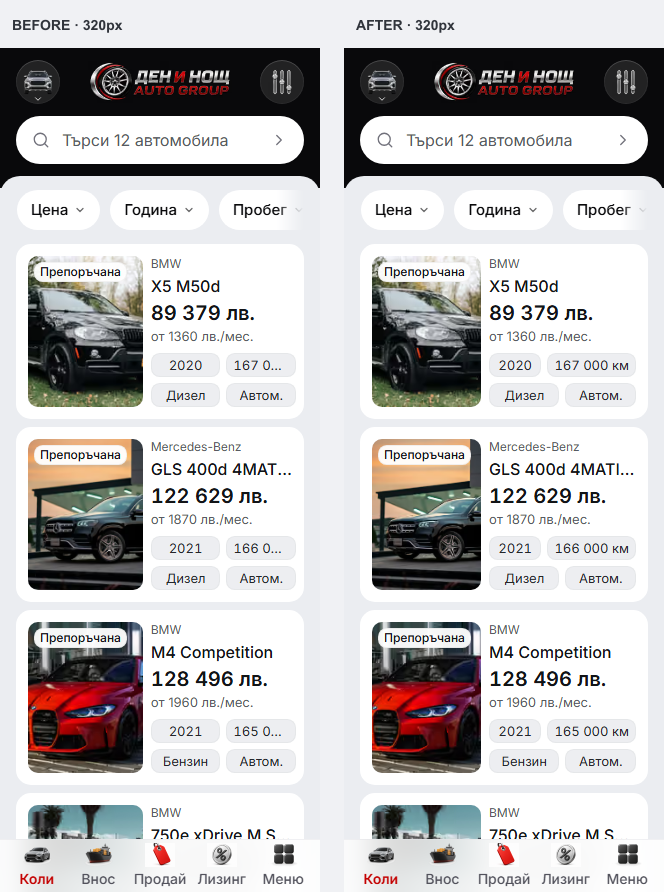
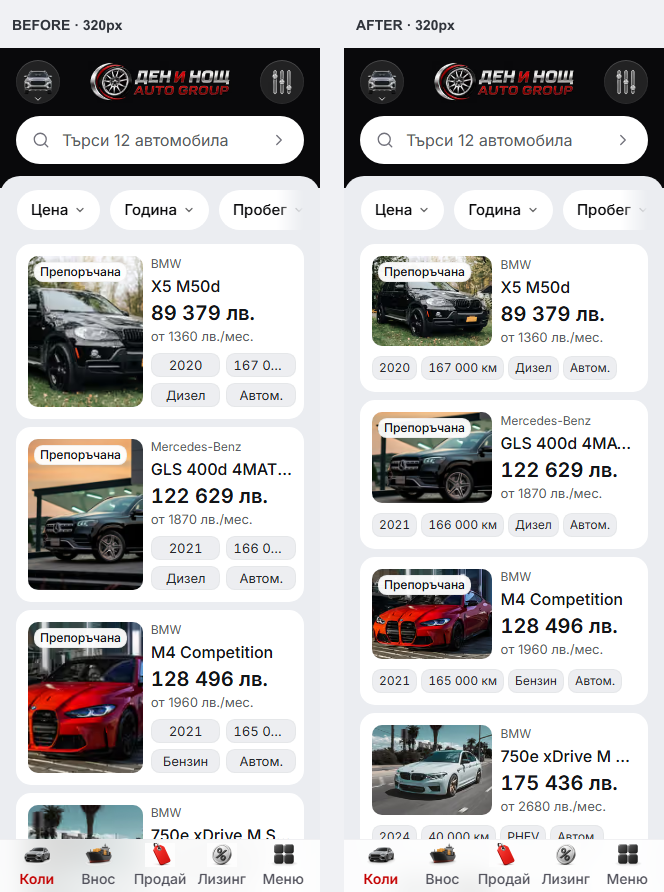
Keep Modern mobile cards landscape with one row of facts

Changed region(s): [[0.5422, 0.2724, 0.9639, 0.9989]]

diff --git a/templates/modern/apps/e2e/specs/modern-mobile-completion.spec.ts b/templates/modern/apps/e2e/specs/modern-mobile-completion.spec.ts
@@ -466,7 +466,7 @@ test("320px inventory keeps semantic type and complete vehicle facts", async ({
   page,
 }) => {
   await page.setViewportSize({ width: 320, height: 700 });
-  await page.goto("/cars");
+  await page.goto("/bg/cars");
   await page.evaluate(() => document.fonts.ready);
 
   const navLabels = page.locator(
@@ -488,7 +488,7 @@ test("320px inventory keeps semantic type and complete vehicle facts", async ({
   const facts = page
     .locator('[data-slot="vehicle-card-spec-pills"]:visible')
     .first()
-    .locator("li > span");
+    .locator('[data-slot="vehicle-card-spec"] > span:first-child');
   const metrics = await facts.evaluateAll((elements) =>
     elements.map((element) => ({
       text: element.textContent,
@@ -506,7 +506,7 @@ test("320px inventory keeps semantic type and complete vehicle facts", async ({
 });
 
 for (const width of [320, 375, 390, 430]) {
-  test(`mobile spec badges keep full values in padded rows at ${width}px`, async ({
+  test(`mobile cards keep landscape photos and one complete badge row at ${width}px`, async ({
     page,
   }) => {
     await page.setViewportSize({ width, height: 844 });
@@ -517,90 +517,61 @@ for (const width of [320, 375, 390, 430]) {
       await expect(cards.first()).toBeVisible();
       const metrics = await cards.evaluateAll((elements) =>
         elements.map((card) => {
-          const brand = card.querySelector('[data-slot="vehicle-card-brand"]');
           const title = card.querySelector('[data-slot="vehicle-card-title"]');
           const media = card
             .closest("article")
-            ?.querySelector('[data-slot="vehicle-card-media"]');
-          const facts = card.querySelector(
-            '[data-slot="vehicle-card-spec-pills"]'
-          );
+            ?.querySelector('[data-slot="vehicle-card-media"]')
+            ?.getBoundingClientRect();
+          const facts = card
+            .querySelector('[data-slot="vehicle-card-spec-pills"]')
+            ?.getBoundingClientRect();
           return {
-            brand: brand?.textContent,
-            brandFont: brand ? getComputedStyle(brand).fontSize : undefined,
             titleName: title?.getAttribute("aria-label"),
             fullTitle: title?.getAttribute("title"),
-            topDelta:
-              brand && media
-                ? brand.getBoundingClientRect().top -
-                  media.getBoundingClientRect().top
-                : undefined,
-            bottomDelta:
-              facts && media
-                ? facts.getBoundingClientRect().bottom -
-                  media.getBoundingClientRect().bottom
-                : undefined,
-            rows: [
+            mediaWidth: media?.width ?? 0,
+            mediaHeight: media?.height ?? 0,
+            factsGap: (facts?.top ?? 0) - (media?.bottom ?? 0),
+            factsRight: facts?.right ?? 0,
+            pills: [
               ...card.querySelectorAll(
-                '[data-slot="vehicle-card-spec-pills"]:first-child > li'
+                '[data-slot="vehicle-card-spec-pills"] > [data-slot="vehicle-card-spec"]'
               ),
             ]
-              .filter((row) => row.getBoundingClientRect().width > 0)
-              .map((row) =>
-                [
-                  ...row.querySelectorAll('[data-slot="vehicle-card-spec"]'),
-                ].map((pill) => {
-                  const text = pill.firstElementChild;
-                  const style = text ? getComputedStyle(text) : undefined;
-                  return {
-                    width: pill.getBoundingClientRect().width,
-                    height: pill.getBoundingClientRect().height,
-                    weight: getComputedStyle(pill).fontWeight,
-                    whiteSpace: style?.whiteSpace,
-                    textOverflow: style?.textOverflow,
-                    overflow: style?.overflow,
-                    padding: getComputedStyle(pill).paddingInlineStart,
-                    textClientWidth: text?.clientWidth,
-                    textScrollWidth: text?.scrollWidth,
-                    text: text?.textContent,
-                  };
-                })
-              ),
+              .filter((pill) => pill.getBoundingClientRect().width > 0)
+              .map((pill) => {
+                const text = pill.firstElementChild;
+                const rect = pill.getBoundingClientRect();
+                return {
+                  top: rect.top,
+                  right: rect.right,
+                  height: rect.height,
+                  padding: getComputedStyle(pill).paddingInlineStart,
+                  textClientWidth: text?.clientWidth ?? 0,
+                  textScrollWidth: text?.scrollWidth ?? 0,
+                  text: text?.textContent,
+                };
+              }),
           };
         })
       );
       expect(metrics.length).toBeGreaterThan(0);
       for (const card of metrics) {
-        expect(card.brand).toBeTruthy();
-        expect(card.brandFont).toBe("12px");
         expect(card.titleName).toBe(card.fullTitle);
-        expect(
-          Math.abs(card.topDelta ?? Number.POSITIVE_INFINITY)
-        ).toBeLessThan(1);
-        expect(
-          Math.abs(card.bottomDelta ?? Number.POSITIVE_INFINITY)
-        ).toBeLessThan(1);
-        expect(card.rows).toHaveLength(2);
-        for (const row of card.rows) {
-          expect(row).toHaveLength(2);
-          for (const pill of row) {
-            expect(
-              pill.textScrollWidth,
-              pill.text ?? "vehicle fact"
-            ).toBeLessThanOrEqual(pill.textClientWidth ?? 0);
-            expect(pill.height).toBe(24);
-            expect(pill.weight).toBe("400");
-            expect(pill.whiteSpace).toBe("nowrap");
-            expect(pill.textOverflow).toBe("ellipsis");
-            expect(pill.overflow).toBe("hidden");
-            expect(Number.parseFloat(pill.padding)).toBeGreaterThanOrEqual(6);
-          }
+        expect(card.mediaWidth).toBeGreaterThan(card.mediaHeight);
+        expect(card.factsGap).toBeGreaterThanOrEqual(8);
+        expect(card.pills).toHaveLength(4);
+        for (const pill of card.pills) {
+          expect(Math.abs(pill.top - card.pills[0].top)).toBeLessThan(1);
+          expect(pill.right).toBeLessThanOrEqual(card.factsRight + 1);
+          expect(
+            pill.textScrollWidth,
+            pill.text ?? "vehicle fact"
+          ).toBeLessThanOrEqual(pill.textClientWidth);
+          expect(pill.height).toBe(24);
+          expect(Number.parseFloat(pill.padding)).toBeGreaterThanOrEqual(6);
         }
       }
-      const automatic = cards
-        .locator('[data-fact="transmission"]')
-        .filter({ hasText: locale === "bg" ? "Автоматик" : "Automatic" })
-        .first();
+      const automatic = cards.locator('[data-fact="transmission"]').first();
       await expect(automatic.locator("span").first()).toHaveText(
         locale === "bg" ? "Автом." : "Auto"
       );
@@ -613,7 +584,6 @@ for (const width of [320, 375, 390, 430]) {
     }
   });
 }
-
 for (const viewport of [
   { width: 320, height: 700 },
   { width: 844, height: 390 },

diff --git a/templates/modern/packages/marketplace-ui/components/dealer-vehicle-facts.tsx b/templates/modern/packages/marketplace-ui/components/dealer-vehicle-facts.tsx
@@ -10,46 +10,35 @@ export function DealerVehicleFacts({
   }[];
   readonly label: string;
 }) {
-  const rows = Array.from({ length: Math.ceil(facts.length / 2) }, (_, index) =>
-    facts.slice(index * 2, index * 2 + 2)
-  );
-
   return (
     <>
       <div className="lg:hidden">
         <ul
           aria-label={label}
-          className="grid gap-1.5 text-card-spec text-secondary-foreground"
+          className="flex gap-1 text-micro text-secondary-foreground min-[360px]:text-card-spec"
           data-slot="vehicle-card-spec-pills"
         >
-          {rows.map((row) => (
+          {facts.map((fact) => (
             <li
-              className="grid min-w-0 grid-cols-[minmax(0,1fr)_minmax(max-content,1fr)] gap-1.5"
-              key={row[0].id}
+              className="flex min-h-6 shrink-0 items-center justify-center rounded-md border border-border/40 bg-secondary px-1.5 py-0.5 font-normal tabular-nums"
+              data-fact={fact.id}
+              data-slot="vehicle-card-spec"
+              key={fact.id}
+              title={fact.value}
             >
-              {row.map((fact) => (
-                <span
-                  className="flex min-h-6 min-w-0 max-w-full items-center justify-center rounded-md border border-border/40 bg-secondary px-1.5 py-0.5 font-normal tabular-nums"
-                  data-fact={fact.id}
-                  data-slot="vehicle-card-spec"
-                  key={fact.id}
-                  title={fact.value}
-                >
-                  <span
-                    aria-hidden={
-                      fact.mobileDisplayValue || fact.displayValue
-                        ? true
-                        : undefined
-                    }
-                    className="min-w-0 truncate"
-                  >
-                    {fact.mobileDisplayValue ?? fact.displayValue ?? fact.value}
-                  </span>
-                  {fact.mobileDisplayValue || fact.displayValue ? (
-                    <span className="sr-only">{fact.value}</span>
-                  ) : null}
-                </span>
-              ))}
+              <span
+                aria-hidden={
+                  fact.mobileDisplayValue || fact.displayValue
+                    ? true
+                    : undefined
+                }
+                className="whitespace-nowrap"
+              >
+                {fact.mobileDisplayValue ?? fact.displayValue ?? fact.value}
+              </span>
+              {fact.mobileDisplayValue || fact.displayValue ? (
+                <span className="sr-only">{fact.value}</span>
+              ) : null}
             </li>
           ))}
         </ul>

diff --git a/templates/modern/packages/marketplace-ui/lib/mobile-vehicle-card-layout.ts b/templates/modern/packages/marketplace-ui/lib/mobile-vehicle-card-layout.ts
@@ -1,24 +1,25 @@
 /** Shared mobile geometry for inventory links and financing selection cards. */
 export const mobileVehicleCardClassName =
-  "grid grid-cols-[42%_minmax(0,1fr)] lg:flex lg:flex-row";
+  "grid grid-cols-[46%_minmax(0,1fr)] lg:flex lg:flex-row";
 
-export const mobileVehicleCardImageSizes = "42vw";
+export const mobileVehicleCardImageSizes = "46vw";
 
 export const mobileVehicleCardMediaClassName =
-  "relative col-start-1 row-start-1 z-10 m-3 mr-0 min-w-0 self-stretch overflow-hidden rounded-lg bg-secondary lg:z-auto lg:m-0 lg:aspect-auto lg:min-h-28 lg:w-[40%] lg:min-w-24 lg:max-w-44 lg:shrink-0 lg:rounded-none";
+  "relative col-start-1 row-start-1 z-10 mt-3 ml-3 aspect-[4/3] min-w-0 self-start overflow-hidden rounded-lg bg-secondary lg:z-auto lg:m-0 lg:aspect-auto lg:min-h-28 lg:w-[40%] lg:min-w-24 lg:max-w-44 lg:shrink-0 lg:self-stretch lg:rounded-none";
 
-/** One right-hand content block; the photo stretches to the same row height. */
+/** One linked surface: copy beside the photo, with full-width facts beneath both. */
 export const mobileVehicleCardContentClassName =
-  "col-start-2 row-start-1 flex min-h-39 min-w-0 flex-col justify-between gap-2 py-3 pr-3 pl-2 lg:min-h-0 lg:flex-1 lg:justify-center lg:px-2.5";
+  "col-span-2 col-start-1 row-span-2 row-start-1 grid min-w-0 grid-cols-subgrid grid-rows-subgrid lg:flex lg:flex-1 lg:flex-col lg:justify-center lg:gap-2 lg:px-2.5 lg:py-3";
 
 export const mobileVehicleCardBrandClassName =
   "truncate font-normal text-micro text-muted-foreground tracking-normal";
 
 /** Title and price stay adjacent, including listings without a payment label. */
 export const mobileVehicleCardInfoClassName =
-  "flex min-w-0 flex-col gap-1 lg:block";
+  "col-start-2 row-start-1 flex min-w-0 flex-col justify-center gap-1 pt-3 pr-3 pl-2 lg:block lg:p-0";
 
-export const mobileVehicleCardFactsClassName = "min-w-0";
+export const mobileVehicleCardFactsClassName =
+  "col-span-2 row-start-2 min-w-0 px-3 pt-2.5 pb-3 lg:p-0";
 
 export const mobileVehicleCardPriceSummaryClassName =
   "flex min-w-0 flex-col gap-0.5 lg:block";

diff --git a/templates/modern/docs/MOBILE-POLISH-2026-10-01.md b/templates/modern/docs/MOBILE-POLISH-2026-10-01.md
@@ -1,17 +1,20 @@
 # Modern mobile polish — 1 October 2026
 
-Scope: restrained refinement of the existing mobile patterns. No typography scale, imagery, service flow, desktop redesign, dealer refresh or deployment is part of this change.
+Scope: refinement of the existing mobile cards and sheets in the reusable Modern master. No dealer refresh or deployment is included.
 
-## Changes
+## Final card treatment
 
-- Inventory, leasing selections and related cards share a 42% image track (previously 44%) and a 12px outer right inset (previously 8px). The 8px image-to-copy gap is retained.
-- Fact rows remain equal where space permits. The second cell reserves its full content width on narrower cards, keeping mileage readable without smaller type, rounding or reduced padding. Before this pass, all 12 mileage labels were truncated at 320px in both Bulgarian and English.
-- Shared mobile sheet headers, search fields, search results, vehicle taxonomy options and leasing preferences use a 16px side inset. Headers gain 4px of bottom space and balanced multiline titles.
-- Existing browser coverage now measures the visible text itself, catching ellipsis clipping that the previous outer-element overflow check missed. The fixed equal-column assertion was replaced because it conflicted with preserving full mileage on narrow screens; font size, one-line text, padding and card alignment checks remain.
+- Inventory, leasing selections and related vehicle cards use a landscape 4:3 photo. A shared 46% media track replaces the tall image stretched to match all of the adjacent content.
+- Brand, model and price sit beside the photo. All four vehicle facts sit together in one row beneath the photo and copy, using the card's full width.
+- Badges have intrinsic widths, consistent type, 24px height and 6px horizontal padding. The year and mileage no longer stretch into uneven columns. Full year and mileage values remain visible at 320px in Bulgarian and English; abbreviated transmission labels retain their full accessible text.
+- The shared card constants and direct fact list keep inventory and leasing consistent. Desktop fact markup is retained.
+- Mobile sheet headers, search fields/results, taxonomy options and leasing preferences use a consistent 16px side inset. Headers gain 4px of bottom space and balanced multiline titles.
+
+The earlier two-row badge correction was rejected during review. This report and the paired inventory screenshots describe the revised single-row treatment.
 
 ## Before and after
 
-These are paired browser captures at identical viewport widths, with no retouching. The overlay captures wait for their opening animation to finish.
+Paired browser captures at identical viewport widths, without retouching. Before captures show the original mobile baseline; after captures show the final single-row cards. Overlay captures wait for the opening animation to finish.
 
 - [Inventory at 320px](mobile-final-2026-10-01/cars-320-comparison.png)
 - [Inventory at 390px](mobile-final-2026-10-01/cars-390-comparison.png)
@@ -20,17 +23,20 @@ These are paired browser captures at identical viewport widths, with no retouchi
 
 ## Validation
 
-- Node 22.23.2, pnpm 11.4.0; canonical source `L:/CODEX/cars/templates/modern` on `main`, local static-demo preview at `http://127.0.0.1:6462`.
-- Unit tests: 271 passing (85 marketplace UI and 186 web).
-- `pnpm --filter web typecheck`: passed.
-- Biome: all eight changed source/test files passed. `git diff --check`: passed.
-- Local visual/HTTP checks: inventory, vehicle detail, leasing, imports, sell and contact at 320px, 390px and 1440px; all 18 returned HTTP 200, with no horizontal overflow, page errors or failed loaded images.
-- Desktop comparison against `fbe8900c7`: inventory, leasing, imports, sell and contact are pixel-identical. The vehicle-detail difference is confined to the live map tiles.
-- Chromium/WebKit interaction run: 33 of 34 selected cases passed on the first run. One WebKit make/model test timed out after the initial filter tap; both isolated repeats passed unchanged. Covered search/filter selection, desktop search continuation, draft preservation, custom vehicle makes, focus return, import clear/focus, financing handoff, semantic type/contrast and full vehicle facts at 320/375/390/430px in BG/EN.
-- `pnpm --filter web build`: passed with the documented static-demo environment. The owned preview was paused for the build, then restored on 6462 using Cars start-preview.ps1.
+- Runtime: Node 22.23.2, pnpm 11.4.0, canonical source `L:/CODEX/cars/templates/modern`, static-demo preview `http://127.0.0.1:6462/bg/cars`.
+- Current source: 271 passing unit tests (85 marketplace UI, 186 web).
+- Current card geometry: all eight Chromium/WebKit cases pass at 320/375/390/430px, each in BG and EN. They check landscape photos, one complete badge row, padding, visible text, accessible titles/transmission and horizontal overflow.
+- The existing 320px semantic/fact case passed in Chromium. WebKit initially encountered an execution-context error during the unlocalized route redirect; using the explicit `/bg/cars` route resolved the test and its final run passed.
+- A desktop browser constrained to 320px (305px content with its scrollbar) and 390px retained all visible fact labels in both BG and EN.
+- Final `pnpm --filter web typecheck` and `pnpm --filter web build` pass. The owned preview was paused for the build and restored on port 6462 using the Cars preview script.
+- Final route checks cover inventory, vehicle detail, leasing, imports, sell and contact at 320px, 390px and 1440px. All 18 return HTTP 200 with no horizontal overflow, page errors or broken loaded images.
+- Biome passes for the three final changed source/test files; `git diff --check` passes.
+- Earlier interaction coverage: 33 of 34 selected Chromium/WebKit cases passed initially. One WebKit make/model test missed its first filter tap; both isolated repeats passed unchanged. This earlier run covered search/filter selection, desktop search continuation, draft preservation, custom vehicle makes, focus return, import clear/focus, financing handoff and semantic type/contrast.
 
-## Preservation and limits
+## Preservation and delivery
 
-The original mobile captures were taken at `3aa204ccb`. The separate desktop writer completed its work as `fbe8900c7` before mobile source edits began; desktop comparison captures were refreshed against that revision. No message was sent to another chat. The shared chat reference could not be read because the browser presented a verification screen, so the live Modern template was the visual reference.
+The original mobile baseline was `3aa204ccb`. Initial mobile changes were saved in commit `d3088de99`; the final single-row correction supersedes that card treatment. An existing Git index lock temporarily blocked the follow-up commit and was preserved until it cleared. The final delivery commit is recorded in the task handoff. Do not release the earlier commit alone as the final mobile treatment.
 
-Workspace doctor fetched current refs successfully. Unrelated Cars/dealer/template changes and the independent admin repository's ahead/behind state were preserved. This is local standalone static-demo evidence, not mounted dealer, hosted, physical-device or real enquiry-delivery verification. Owner visual acceptance remains with the owner.
+Another chat rolled back its desktop redesign locally. Those separate dirty files, all unrelated Cars/dealer/template changes, and the independent admin repository's state are preserved. Current desktop identity is not a result of this mobile task. Workspace doctor fetched refs successfully earlier in the pass. No message was sent to another chat.
+
+The shared ChatGPT reference could not be read because it presented a verification screen, so the live Modern template was used as the visual reference. Evidence is from the local standalone static demo, not mounted dealers, a hosted deployment, physical devices or real enquiry delivery. Visual acceptance remains with the owner.
